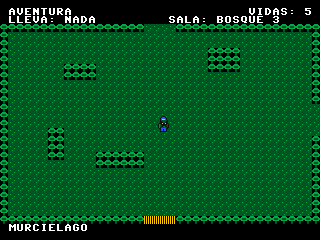
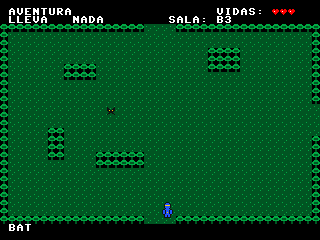
3 vidas en vez de 5 y capturas de doc actualizadas
start_game() arranca con 3 vidas; el HUD dibuja un corazon por vida (se veian 5). Verificado en el emulador: 3 corazones al empezar y 2 tras el primer choque con el dragon verde, volviendo a la sala 8. Se regeneran doc/pantalla.png, doc/bosque.png y doc/dragon.png, que aun mostraban el HUD viejo (VIDAS: 5 en texto y nombres largos de sala).

diff --git a/game.c b/game.c
@@ -936,7 +936,7 @@ static void reset_objects(void) {
 }
 
 static void start_game(void) {
-    lives = 5;
+    lives = 3;
     carry = OBJ_NONE;
     current_room = 8;
     px = 160;

diff --git a/README.md b/README.md
@@ -15,7 +15,7 @@ monitor desde `$0800`.
 ## Objetivo
 
 Recupera el **caliz** de la camara sellada del **Castillo Negro** y llevalo al
-**pedestal de oro** del **Castillo de Oro** (habitacion inicial). Tienes 5
+**pedestal de oro** del **Castillo de Oro** (habitacion inicial). Tienes 3
 vidas.
 
 ## Controles
@@ -218,9 +218,10 @@ python tools/mock_chalice.py --write-graf  # caliz con asas (sprite 0)
     suelo del castillo como fondo para que no quede dentro de un cuadrado.
   Las hojas de diseno estan en `doc/hole_options.png` y
   `doc/pedestal_options.png`.
-- HUD: las vidas se muestran como **corazones** (sprite 41, paleta 2, slots OAM
-  21-25) y al lado de `LLEVA` aparece el **icono del objeto** que llevas (slot
-  26). Ambos se redibujan cuando cambia el HUD, sin tocar la RAM del juego.
+- HUD: las vidas se muestran como **corazones** (sprite 41, paleta 2, uno por
+  vida en los slots OAM 21-25) y al lado de `LLEVA` aparece el **icono del
+  objeto** que llevas (slot 26). Ambos se redibujan cuando cambia el HUD, sin
+  tocar la RAM del juego.
 - No hay pantalla de titulo (se recorto para liberar RAM); el juego arranca
   directamente en el Castillo de Oro.
 - El HUD usa nombres de sala cortos (B1, C2, ORO...) y pistas de una palabra
